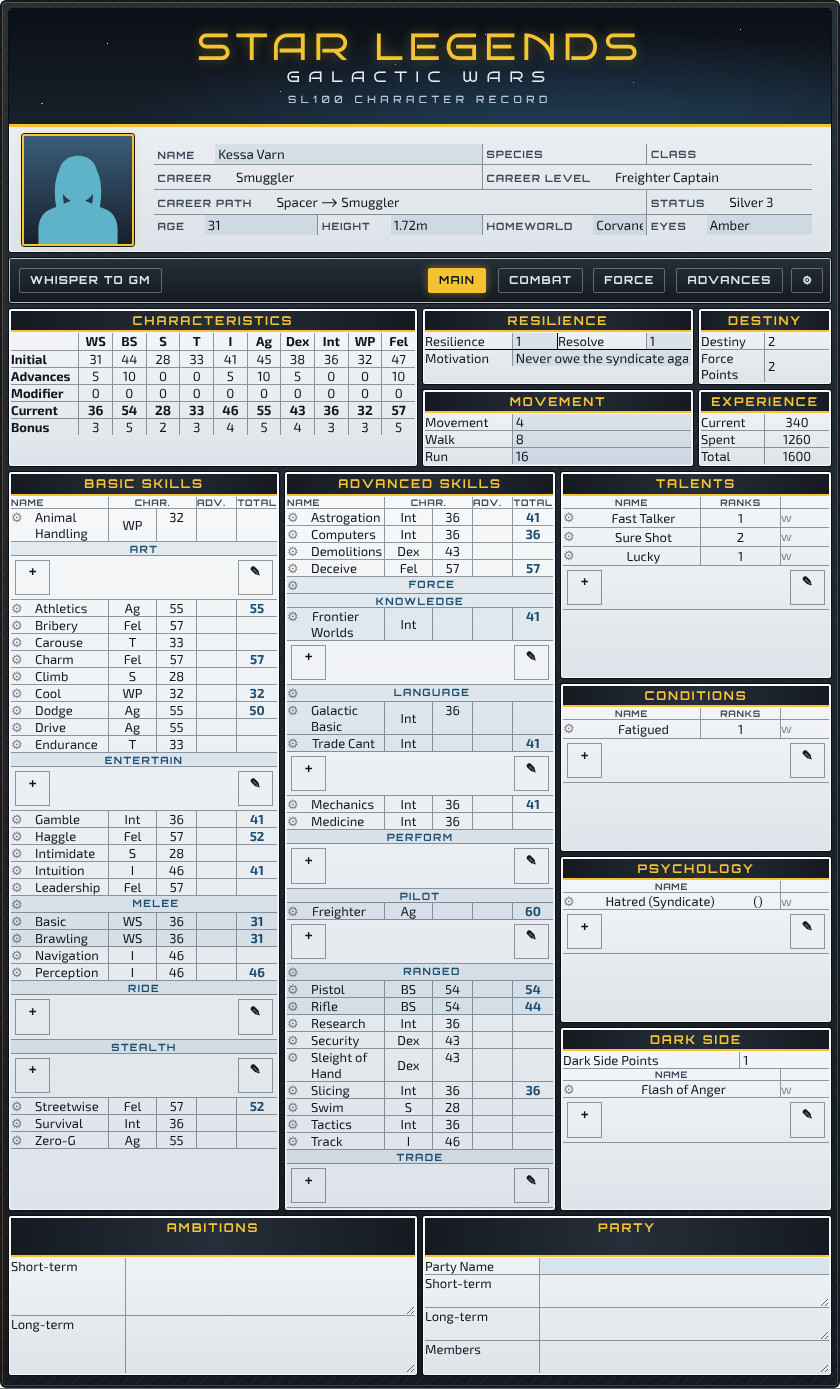
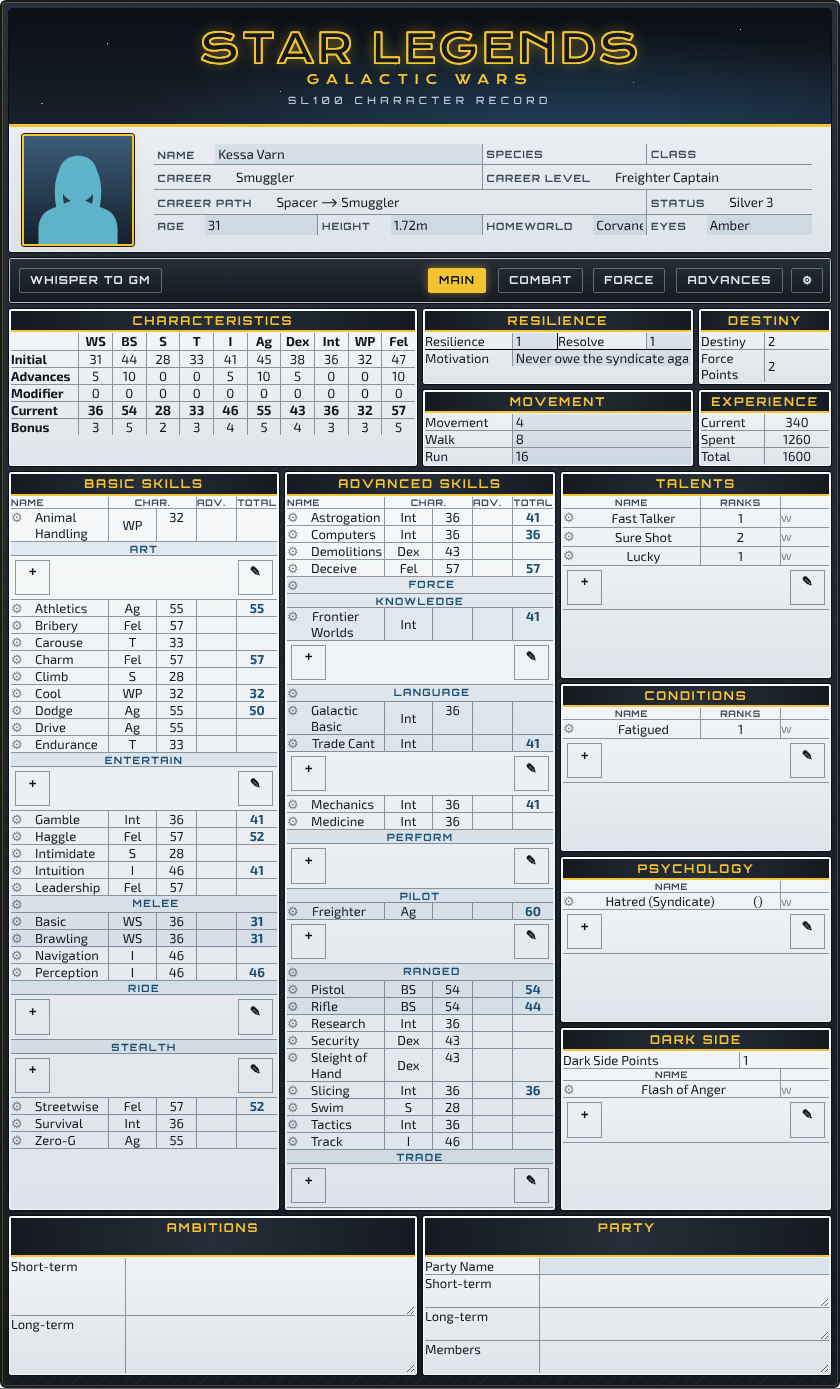
Bold outlined title in Krona One
Bruno Ace SC has only a regular weight, so it can't carry a heavy logo.
Switch the header title to Krona One, a wide, heavy geometric face, and
draw it as an outline: dark fill with a yellow outline and soft glow.

The outline uses -webkit-text-stroke for a clean edge, plus a ring of
1px text-shadows, so it stays visible if a sanitizer drops the stroke.
The 'Galactic Wars' tagline is now accent yellow to match.

Claude-Session: https://claude.ai/code/session_01WgHnt61G6yq3dpjTGP8bZF

Changed region(s): [[0.2476, 0.0, 0.7738, 0.0619]]

diff --git a/sl100.css b/sl100.css
@@ -1,4 +1,4 @@
-@import url("https://fonts.googleapis.com/css?family=Orbitron:500,700,900|Exo+2:400,400i,600,700|Bruno+Ace+SC&display=swap");
+@import url("https://fonts.googleapis.com/css?family=Orbitron:500,700,900|Exo+2:400,400i,600,700|Krona+One&display=swap");
 .charsheet .sheet-sl-wrapper {
   position: relative;
 }
@@ -1253,22 +1253,23 @@ button.sheet-pictos[type=action]:hover {
   border-bottom: 3px solid #f3c331;
 }
 .sheet-sl-header__logo-title {
-  color: #f3c331;
-  font-family: "Bruno Ace SC", "Orbitron", Arial, sans-serif;
-  font-size: 38px;
+  color: #151a21;
+  -webkit-text-stroke: 1.5px #f3c331;
+  font-family: "Krona One", "Orbitron", Arial, sans-serif;
+  font-size: 40px;
   font-weight: 400;
-  letter-spacing: 0.14em;
-  line-height: 1;
+  letter-spacing: 0.06em;
+  line-height: 1.05;
   text-transform: uppercase;
-  text-shadow: 0 0 12px rgba(243, 195, 49, 0.35);
+  text-shadow: 1px 0 0 #f3c331, -1px 0 0 #f3c331, 0 1px 0 #f3c331, 0 -1px 0 #f3c331, 1px 1px 0 #f3c331, -1px -1px 0 #f3c331, 1px -1px 0 #f3c331, -1px 1px 0 #f3c331, 0 0 14px rgba(243, 195, 49, 0.45);
 }
 .sheet-sl-header__logo-tagline {
   margin-top: 4px;
-  color: #e6edf4;
-  font-family: "Bruno Ace SC", "Orbitron", Arial, sans-serif;
-  font-size: 15px;
+  color: #f3c331;
+  font-family: "Krona One", "Orbitron", Arial, sans-serif;
+  font-size: 13px;
   font-weight: 400;
-  letter-spacing: 0.55em;
+  letter-spacing: 0.5em;
   line-height: 1;
   text-transform: uppercase;
 }

diff --git a/src/scss/styling/_header.scss b/src/scss/styling/_header.scss
@@ -12,27 +12,40 @@
         border-bottom: 3px solid $sl-accent;
     }
 
+    // Outlined title: dark fill with a yellow outline. The outline is drawn
+    // twice: -webkit-text-stroke gives the clean edge, and the ring of 1px
+    // text-shadows keeps an outline visible if a sanitizer drops the stroke.
     &__logo-title {
-        color: $sl-accent;
+        color: $sl-frame;
+        -webkit-text-stroke: 1.5px $sl-accent;
 
         font-family: $font-family-title;
-        font-size: 38px;
+        font-size: 40px;
         font-weight: 400;
-        letter-spacing: .14em;
-        line-height: 1;
+        letter-spacing: .06em;
+        line-height: 1.05;
         text-transform: uppercase;
-        text-shadow: 0 0 12px rgba($sl-accent, .35);
+        text-shadow:
+            1px 0 0 $sl-accent,
+            -1px 0 0 $sl-accent,
+            0 1px 0 $sl-accent,
+            0 -1px 0 $sl-accent,
+            1px 1px 0 $sl-accent,
+            -1px -1px 0 $sl-accent,
+            1px -1px 0 $sl-accent,
+            -1px 1px 0 $sl-accent,
+            0 0 14px rgba($sl-accent, .45);
     }
 
     &__logo-tagline {
         margin-top: 4px;
 
-        color: #e6edf4;
+        color: $sl-accent;
 
         font-family: $font-family-title;
-        font-size: 15px;
+        font-size: 13px;
         font-weight: 400;
-        letter-spacing: .55em;
+        letter-spacing: .5em;
         line-height: 1;
         text-transform: uppercase;
     }

diff --git a/src/scss/_fonts.scss b/src/scss/_fonts.scss
@@ -11,7 +11,7 @@ $font-family-alt: "Exo 2", "Segoe UI", Arial, sans-serif;
 $font-family-display: "Orbitron", "Exo 2", Arial, sans-serif;
 // Game title in the header. Swap this (and the Google Fonts import in
 // sl100.scss) to change the title face without touching the rest.
-$font-family-title: "Bruno Ace SC", "Orbitron", Arial, sans-serif;
+$font-family-title: "Krona One", "Orbitron", Arial, sans-serif;
 $font-family-pictos: "Pictos";
 
 .sheet-sl-wrapper .sheet-sl-pc,

diff --git a/src/scss/sl100.scss b/src/scss/sl100.scss
@@ -1,6 +1,6 @@
 // Google Fonts v1 URL on purpose: the css2 format contains ';' and '@',
 // which Roll20's CSS sanitizer can choke on, discarding the whole sheet.
-@import url('https://fonts.googleapis.com/css?family=Orbitron:500,700,900|Exo+2:400,400i,600,700|Bruno+Ace+SC&display=swap');
+@import url('https://fonts.googleapis.com/css?family=Orbitron:500,700,900|Exo+2:400,400i,600,700|Krona+One&display=swap');
 
 @import "reset";
 

diff --git a/README.md b/README.md
@@ -5,7 +5,7 @@ A Roll20 character sheet for **Star Legends – Galactic Wars** (**SL100**), a s
 The layout, panel structure and sheetworker engine come from the
 [Warhammer Fantasy Roleplay 4e Official sheet](https://github.com/Roll20/roll20-character-sheets/tree/master/Warhammer%20Fantasy%20Roleplay%204e%20Official).
 The game content and visual theme have been replaced: it uses a gunmetal console frame,
-datapad panels, Bruno Ace SC for the title, Orbitron and Exo 2 type, and a signal-yellow accent. None of the
+datapad panels, Krona One (outlined) for the title, Orbitron and Exo 2 type, and a signal-yellow accent. None of the
 WFRP artwork is used.
 
 ![Sheet preview](preview.png)
